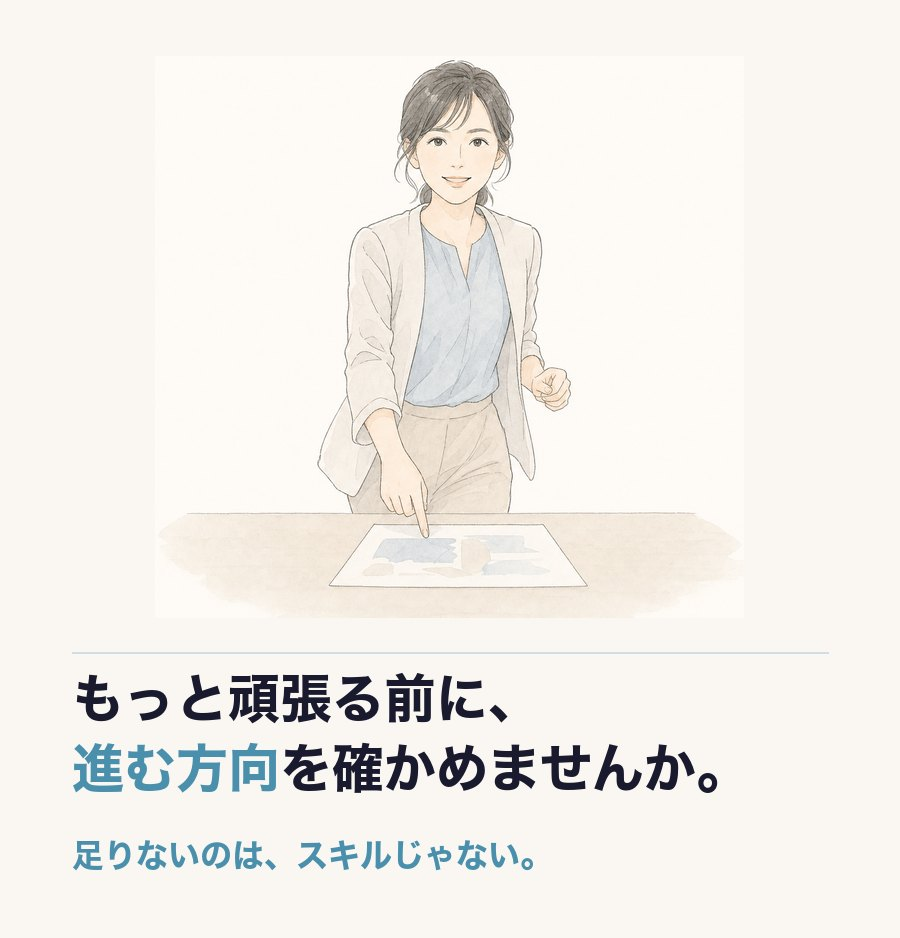
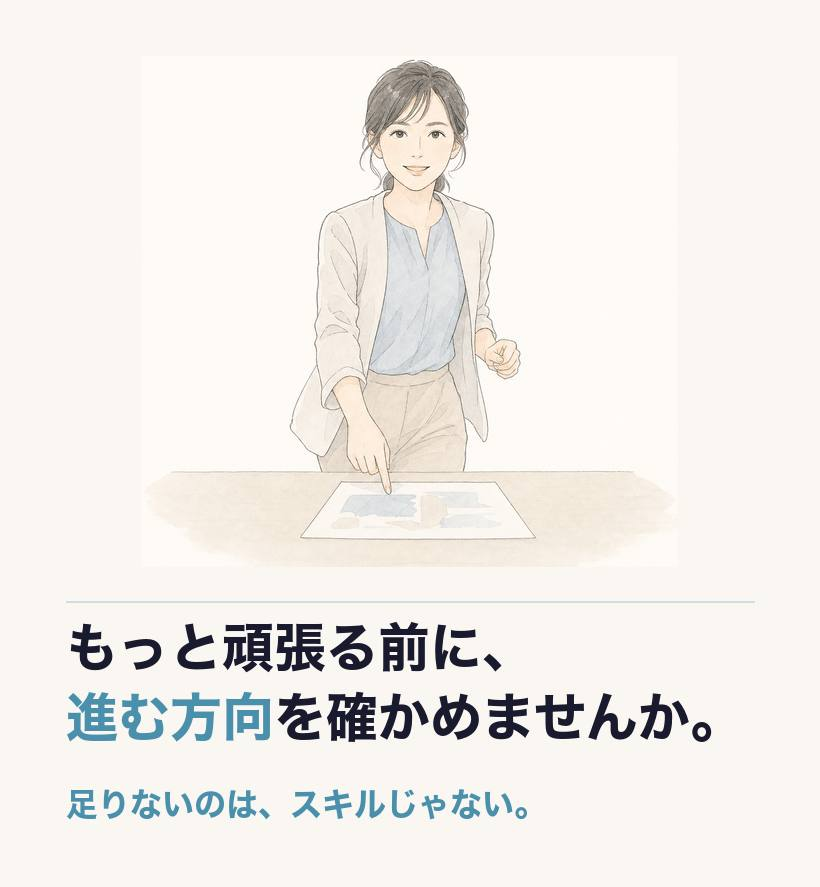
深掘りLPの画像を軽量化し遅延読み込みを追加

diff --git a/shindan/kekka/index.html b/shindan/kekka/index.html
@@ -44,7 +44,7 @@ fbq('track', 'PageView');
     font-family:"Hiragino Kaku Gothic ProN","Hiragino Sans","Noto Sans JP",sans-serif;
   }
   .wrap{max-width:480px;margin:0 auto;background:#faf7f1;}
-  .b{display:block;width:100%;height:auto;margin:0;vertical-align:top;}
+  .b{display:block;width:100%;height:auto;margin:0;vertical-align:top;background:#faf7f1;}
   .cta{padding:26px 20px 34px;text-align:center;}
   .cta:last-of-type{padding-bottom:calc(46px + env(safe-area-inset-bottom));}
   .btn{
@@ -65,18 +65,18 @@ fbq('track', 'PageView');
 <div class="wrap">
 
   <!-- FV＋診断結果: タイプ別（1枚に連結済み） -->
-  <img class="b" id="imgFv" src="" alt="">
+  <img class="b" id="imgFv" src="" width="820" height="1966" fetchpriority="high" decoding="async" alt="">
 
   <!-- 転換のチェック -->
-  <img class="b" src="./img/block_check.jpg" alt="">
+  <img class="b" src="./img/block_check.jpg" width="820" height="544" loading="lazy" decoding="async" alt="">
 
   <!-- 3つの問題 -->
-  <img class="b" src="./img/block_prob1.jpg" alt="">
-  <img class="b" src="./img/block_prob2.jpg" alt="">
-  <img class="b" src="./img/block_prob3.jpg" alt="">
+  <img class="b" src="./img/block_prob1.jpg" width="820" height="1072" loading="lazy" decoding="async" alt="">
+  <img class="b" src="./img/block_prob2.jpg" width="820" height="1036" loading="lazy" decoding="async" alt="">
+  <img class="b" src="./img/block_prob3.jpg" width="820" height="877" loading="lazy" decoding="async" alt="">
 
   <!-- そこで！ -->
-  <img class="b" src="./img/block_soshite.jpg" alt="">
+  <img class="b" src="./img/block_soshite.jpg" width="820" height="1161" loading="lazy" decoding="async" alt="">
 
   <!-- CTA 1 -->
   <div class="cta">
@@ -84,12 +84,12 @@ fbq('track', 'PageView');
   </div>
 
   <!-- 受けた方の声 -->
-  <img class="b" src="./img/voice_h.jpg" alt="">
-  <img class="b" src="./img/voice1.jpg" alt="">
-  <img class="b" src="./img/voice2.jpg" alt="">
-  <img class="b" src="./img/voice3.jpg" alt="">
-  <img class="b" src="./img/voice4.jpg" alt="">
-  <img class="b" src="./img/voice5.jpg" alt="">
+  <img class="b" src="./img/voice_h.jpg" width="820" height="276" loading="lazy" decoding="async" alt="">
+  <img class="b" src="./img/voice1.jpg" width="820" height="806" loading="lazy" decoding="async" alt="">
+  <img class="b" src="./img/voice2.jpg" width="820" height="806" loading="lazy" decoding="async" alt="">
+  <img class="b" src="./img/voice3.jpg" width="820" height="806" loading="lazy" decoding="async" alt="">
+  <img class="b" src="./img/voice4.jpg" width="820" height="806" loading="lazy" decoding="async" alt="">
+  <img class="b" src="./img/voice5.jpg" width="820" height="806" loading="lazy" decoding="async" alt="">
 
   <!-- CTA 2 -->
   <div class="cta">
@@ -97,10 +97,10 @@ fbq('track', 'PageView');
   </div>
 
   <!-- 悩み -->
-  <img class="b" src="./img/block_worry.jpg" alt="">
+  <img class="b" src="./img/block_worry.jpg" width="820" height="972" loading="lazy" decoding="async" alt="">
 
   <!-- 締め -->
-  <img class="b" src="./img/block_closing.jpg" alt="">
+  <img class="b" src="./img/block_closing.jpg" width="820" height="887" loading="lazy" decoding="async" alt="">
 
   <!-- CTA 3 -->
   <div class="cta">
